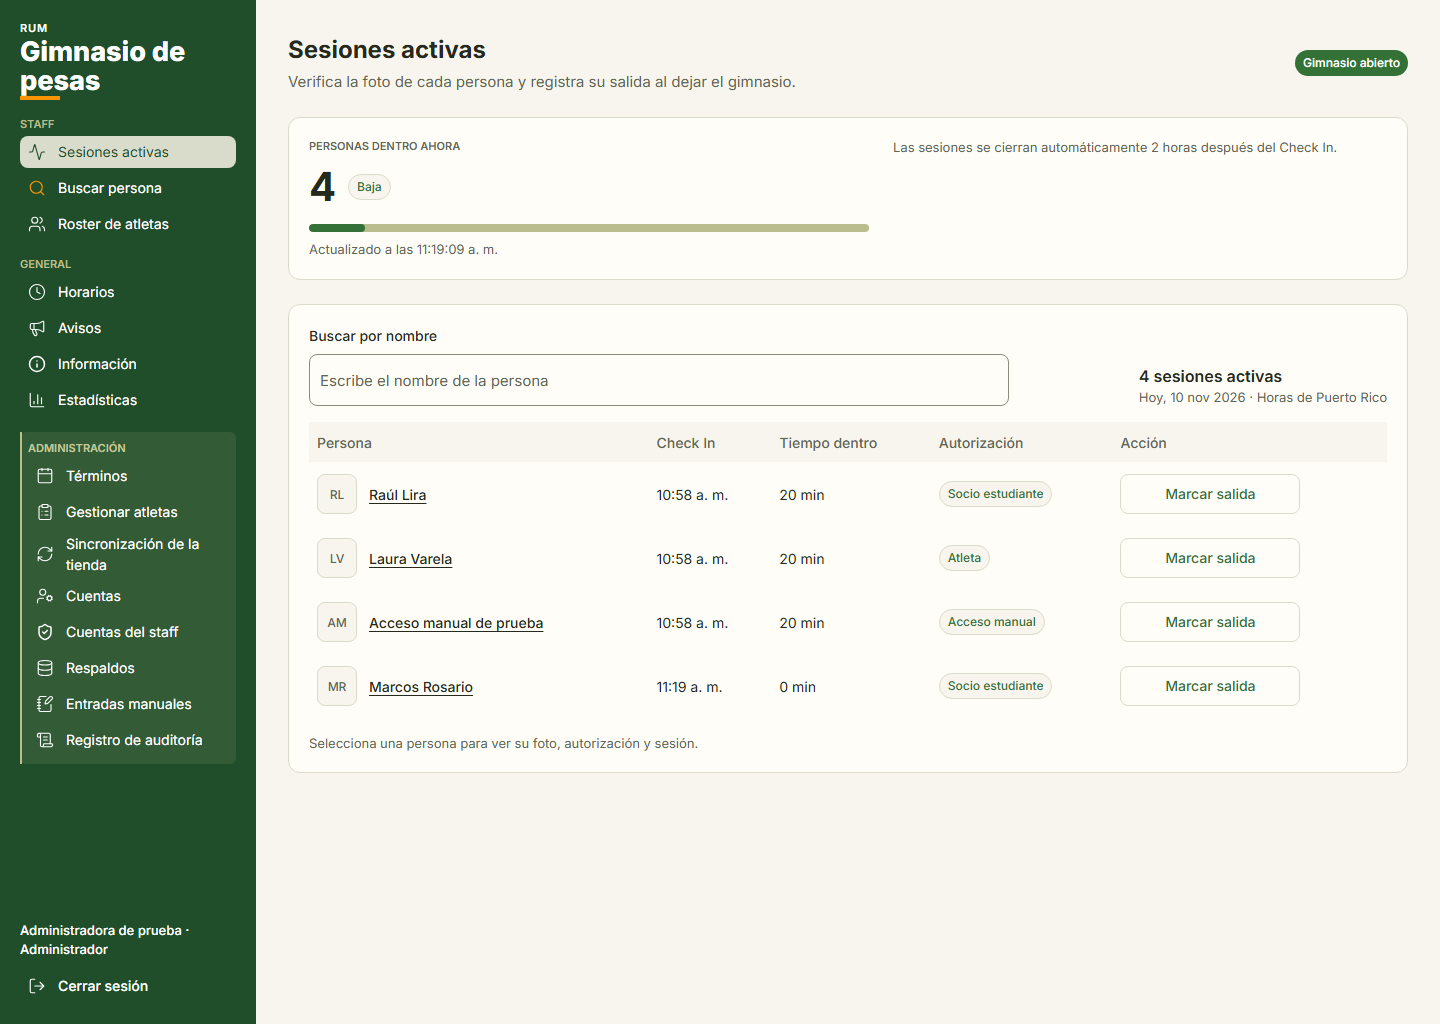
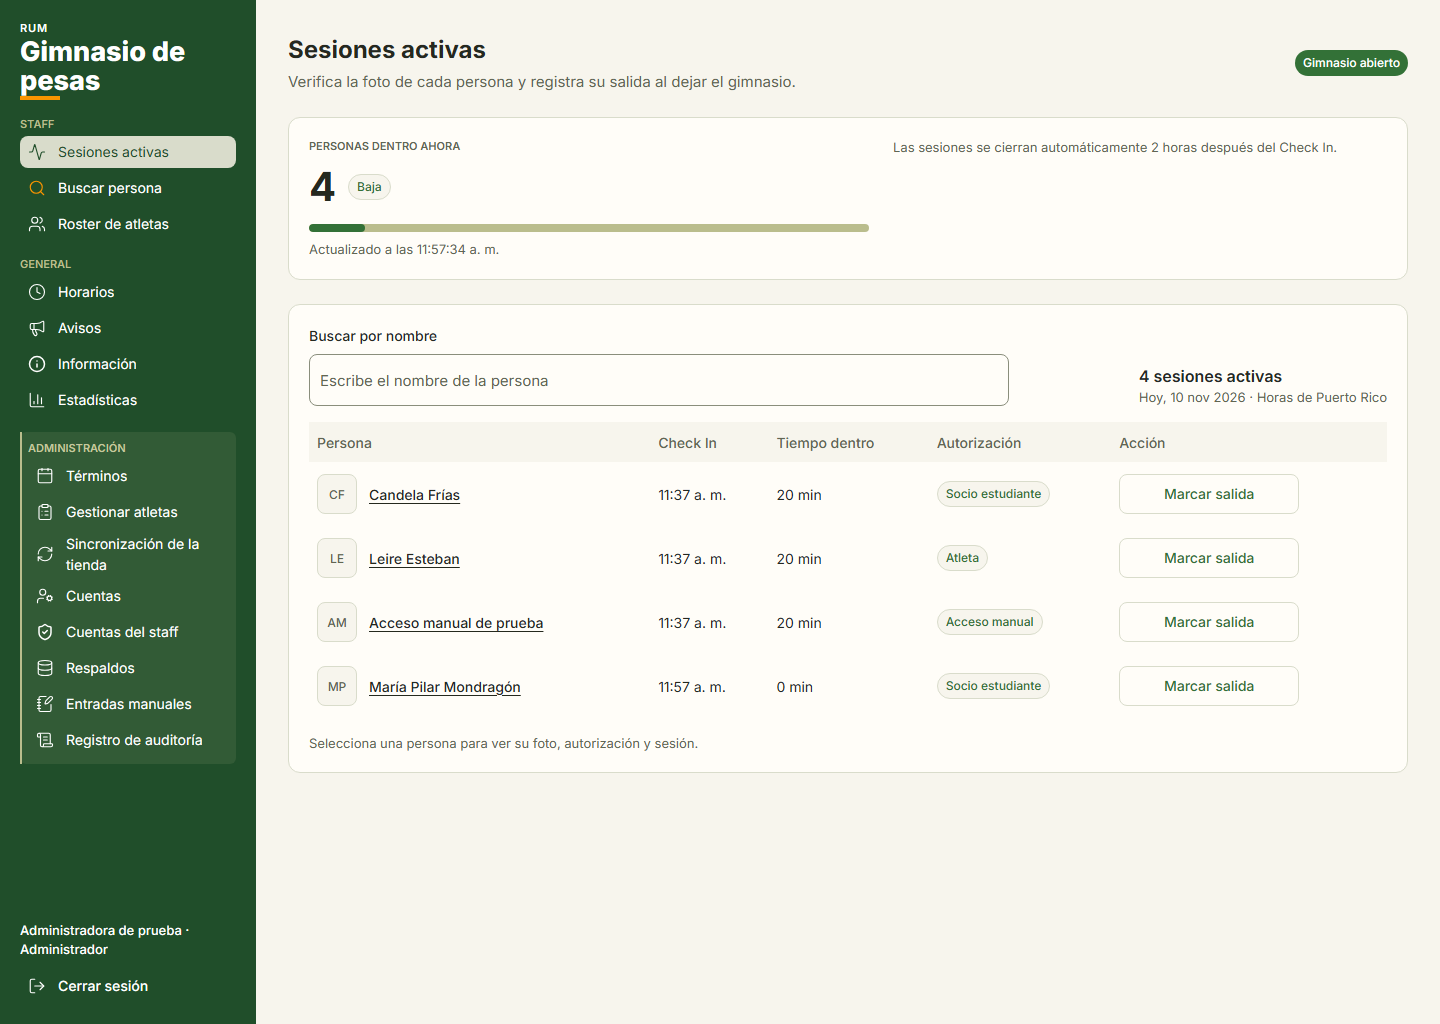
Retake the evidence screenshots after each screen loads and fill in the test plan results

diff --git a/docs/testing/test-plan.md b/docs/testing/test-plan.md
@@ -32,7 +32,7 @@ The seeder never runs in production. Every seeded password is `password`. The se
 
 ## Results
 
-Result words: pass, fail, not merged (the test is in an open pull request). The results come from the run in `evidence/summary.md`, which has the date, the commit and the saved reports. Run it again with `npm run evidence` from `frontend/` once the open pull requests merge.
+Result words: pass, fail. The results come from the run in `evidence/summary.md`, which has the date, the commit and the saved reports. Run it again with `npm run evidence` from `frontend/`.
 
 ### Objective 1: one correct access decision
 
@@ -66,20 +66,20 @@ The proposal names a 60-minute visit. The team replaced it with check-out at the
 | Check-out at the desk | the visit ends at that moment | REQ-NF-40 | `CheckOutTest::staff_and_administrators_check_out_without_an_audit_entry`, `CheckOutTest::only_active_sessions_can_be_checked_out` | pass |
 | Automatic close after 2 hours | the visit ends at 2 hours, also before the scheduled task runs | REQ-NF-40 | `SessionCloseTest::the_scheduled_task_closes_exactly_due_sessions_and_is_idempotent`, `CheckInTest::a_session_past_its_two_hours_is_not_active_even_before_the_cleanup_task`, `CheckOutTest::exactly_two_hours_is_already_ended` | pass |
 | Two Check Ins at the same moment | one visit only | REQ-NF-42 | `CheckInConcurrencyTest::a_simultaneous_check_in_returns_the_session_that_won`, `ConcurrentInsertsTest::two_check_ins_of_the_same_user_at_the_same_time` | pass |
-| Sign in to visit created | a User signs in and Checks In through the real API | REQ-NF-41 | `e2e/user-sign-in.spec.ts`, and the Check In flow in `e2e/flows/check-in.spec.ts` | pass, the flow not merged (#162) |
+| Sign in to visit created | a User signs in and Checks In through the real API | REQ-NF-41 | `e2e/user-sign-in.spec.ts`, and the Check In flow in `e2e/flows/check-in.spec.ts` | pass |
 
 ### Objective 3: occupancy
 
 | Case | Expected result | Requirement | Tests | Result |
 |---|---|---|---|---|
-| The count goes up after a Check In | the visit counts while it is open | REQ-NF-40 | `OccupancyTest::counts_only_non_void_ranges_containing_now_with_an_exclusive_end`, `StaffAssistedCheckInTest::staff_enter_a_person_without_a_phone_and_the_log_marks_it` | pass, the second one not merged (#144) |
+| The count goes up after a Check In | the visit counts while it is open | REQ-NF-40 | `OccupancyTest::counts_only_non_void_ranges_containing_now_with_an_exclusive_end`, `StaffAssistedCheckInTest::staff_enter_a_person_without_a_phone_and_the_log_marks_it` | pass |
 | The count goes down after check-out or the 2-hour close | ended visits do not count | REQ-NF-40 | `OccupancyTest::counts_only_non_void_ranges_containing_now_with_an_exclusive_end` | pass |
-| The count goes down after a Staff correction | ending early or voiding removes the visit from the count | REQ-NF-40 | `StaffSessionDetailTest::staff_correct_an_active_visit_and_the_log_names_them` | not merged (#144) |
+| The count goes down after a Staff correction | ending early or voiding removes the visit from the count | REQ-NF-40 | `StaffSessionDetailTest::staff_correct_an_active_visit_and_the_log_names_them` | pass |
 | Closures and the term end | the visit stops counting before the scheduled task runs | REQ-NF-40 | `OccupancyTest::a_closure_that_started_drops_out_before_the_scheduler_runs`, `OccupancyTest::a_term_that_ended_drops_out_before_the_scheduler_runs` | pass |
 | An empty gym | 0 is a real count | REQ-NF-40 | `OccupancyTest::empty_gym_has_zero_occupancy` | pass |
-| User, Staff and Administrator see the same number | the staff route answers exactly what the User route answers, and the S-01 list matches the count | REQ-F-42 | `StaffOccupancyTest::staff_and_administrators_see_the_same_answer_as_users`, `StaffSessionsListTest::the_list_and_occupancy_agree` | not merged (#144) |
+| User, Staff and Administrator see the same number | the staff route answers exactly what the User route answers, and the S-01 list matches the count | REQ-F-42 | `StaffOccupancyTest::staff_and_administrators_see_the_same_answer_as_users`, `StaffSessionsListTest::the_list_and_occupancy_agree` | pass |
 | Concurrent events | two Check Ins at the same moment count once | REQ-NF-42 | `CheckInConcurrencyTest::a_simultaneous_check_in_returns_the_session_that_won` | pass |
-| Every screen updates the number | Gimnasio and S-01 poll every 25 seconds while visible, and S-01 updates at once after a check-out | REQ-F-43 | `GymId.test.tsx`: "shows the count, polls after 25 seconds and links the selected tab"; `SessionsList.test.tsx`: "updates the occupancy card at once after a check-out, without waiting for the next poll" | pass, the second one not merged (#144) |
+| Every screen updates the number | Gimnasio and S-01 poll every 25 seconds while visible, and S-01 updates at once after a check-out | REQ-F-43 | `GymId.test.tsx`: "shows the count, polls after 25 seconds and links the selected tab"; `SessionsList.test.tsx`: "updates the occupancy card at once after a check-out, without waiting for the next poll" | pass |
 
 ## Not covered here
 

diff --git a/docs/testing/evidence/summary.md b/docs/testing/evidence/summary.md
@@ -22,6 +22,8 @@ Run on 11/10/2026, 11:19 a. m. (Puerto Rico time), branch `81-test-plan-evidence
 
 ## Demo screenshots
 
+Taken again on 11/10/2026 around 11:40 a. m. on a fresh seed, after each screen loads (#183). The test results above are from the run of #171.
+
 - [01-welcome.png](screenshots/01-welcome.png)
 - [02-registro.png](screenshots/02-registro.png)
 - [03-iniciar-sesion.png](screenshots/03-iniciar-sesion.png)
@@ -29,6 +31,7 @@ Run on 11/10/2026, 11:19 a. m. (Puerto Rico time), branch `81-test-plan-evidence
 - [05-gym-id.png](screenshots/05-gym-id.png)
 - [06-gimnasio-ocupacion.png](screenshots/06-gimnasio-ocupacion.png)
 - [07-s01-sesiones-activas.png](screenshots/07-s01-sesiones-activas.png)
+- [08-s02-persona-y-sesion.png](screenshots/08-s02-persona-y-sesion.png)
 - [09-s03-buscar-persona.png](screenshots/09-s03-buscar-persona.png)
 - [10-a04-terminos.png](screenshots/10-a04-terminos.png)
 - [11-a05-roster.png](screenshots/11-a05-roster.png)
